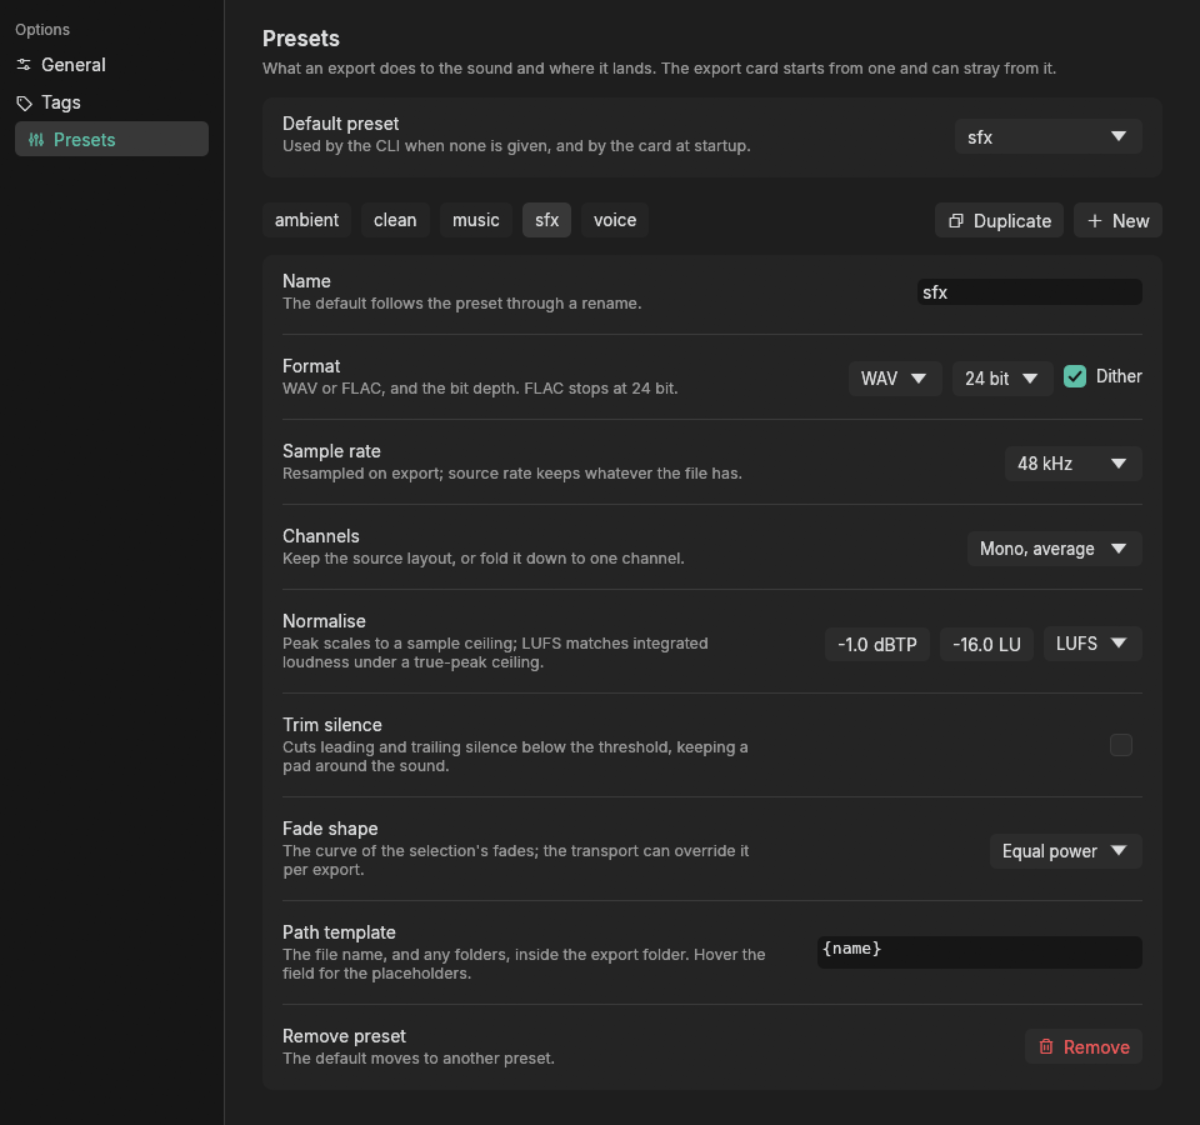
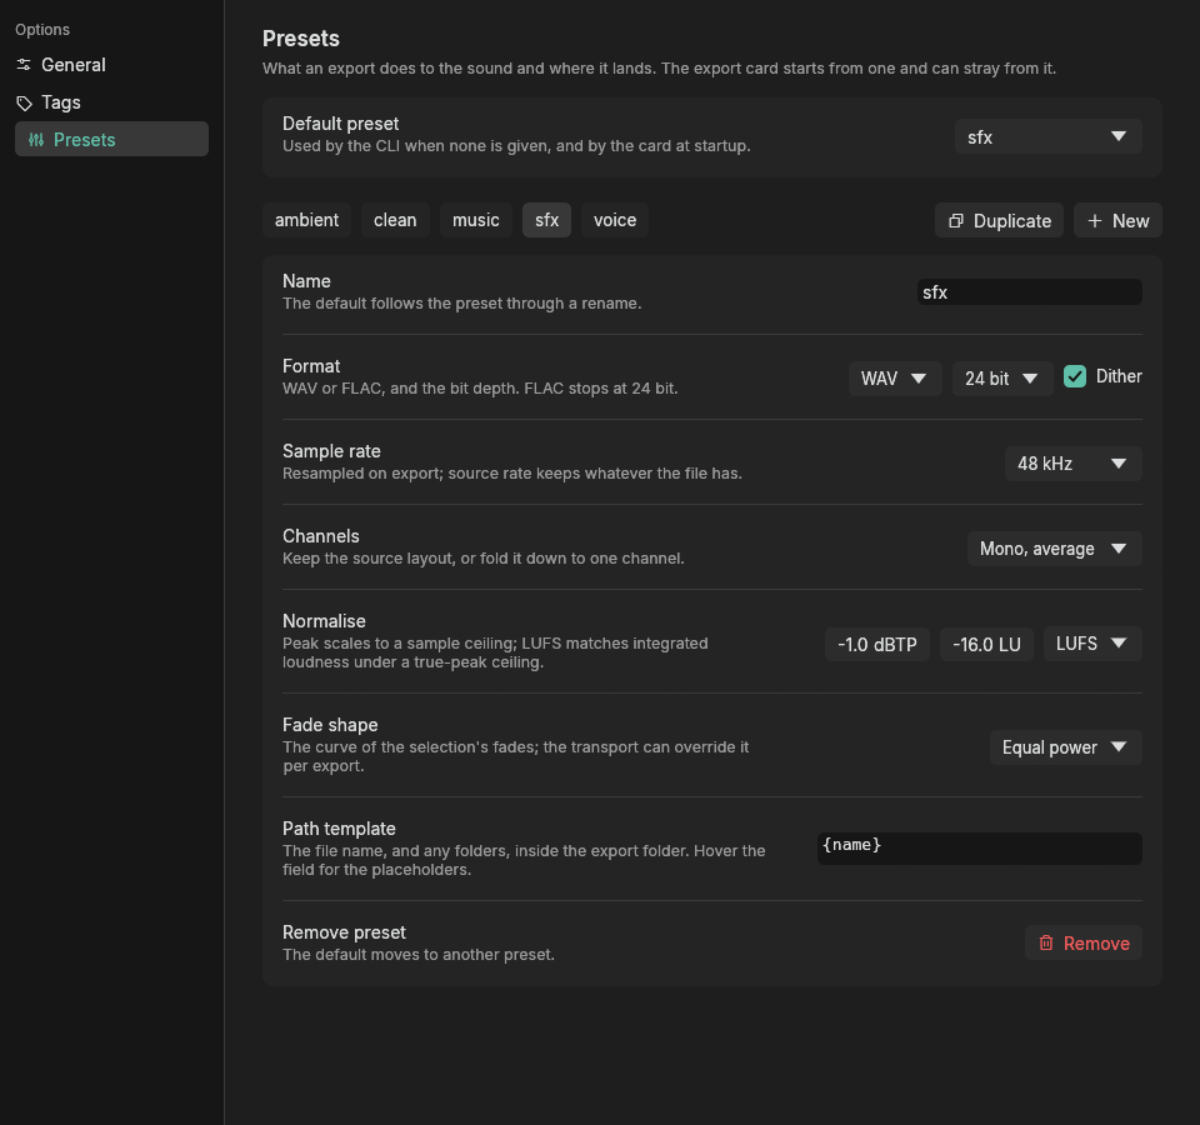
Trim is a selection tool, not a preset option: the transport's Trim button and T shrink the selection, or the whole file, to the sound, and `hark-cli export --trim` does the same; the stage project is Emberwake.
A trim inside a preset changed the export where nothing showed it. The selection is now the whole truth of what is exported: the floor is -60 dBFS with 10 ms kept, `Pcm::sound_span` finds it, and the origin records the trimmed selection as the selection.

diff --git a/crates/hark-core/src/export.rs b/crates/hark-core/src/export.rs
@@ -22,6 +22,8 @@ pub struct ExportRequest {
     pub source: PathBuf,
     pub root: Option<Root>,
     pub selection: Option<Selection>,
+    /// Shrink the selection, or the whole file, to its sound before anything else.
+    pub trim: bool,
     pub fade_in_secs: f64,
     pub fade_out_secs: f64,
     /// The level chosen by hand, in dB; applied unless the preset normalises.
@@ -59,6 +61,7 @@ impl ExportRequest {
             source: source.to_path_buf(),
             root: config.root_of(source).cloned(),
             selection: None,
+            trim: false,
             fade_in_secs: 0.0,
             fade_out_secs: 0.0,
             gain_db: 0.0,
@@ -129,6 +132,13 @@ pub fn run(req: &ExportRequest) -> Result<ExportResult> {
     let source_meta = std::fs::metadata(&req.source).with_context(|| format!("stat {}", req.source.display()))?;
     let source = crate::decode::decode(&req.source)?;
     let preset = req.effective_preset();
+    let mut req = req.clone();
+    if req.trim {
+        let (start, end) = req.selection.map(|s| (s.start_secs, s.end_secs)).unwrap_or((0.0, source.duration_secs()));
+        let (start_secs, end_secs) = source.sound_span(start, end).ok_or_else(|| anyhow!("silent at {} dBFS; nothing to trim to", crate::pcm::TRIM_THRESHOLD_DBFS))?;
+        req.selection = Some(Selection { start_secs, end_secs });
+    }
+    let req = &req;
     let (pcm, warnings, measured) = process(&source, req, &preset)?;
     let output_loudness = loudness::measure(&pcm).ok();
     let measured = Measured {
@@ -204,24 +214,6 @@ fn process(source: &Pcm, req: &ExportRequest, preset: &ExportPreset) -> Result<(
         None => source.clone(),
     };
 
-    if let Some(trim) = preset.trim_silence {
-        let threshold = db_to_gain(trim.threshold_dbfs);
-        let pad = ((trim.pad_ms / 1000.0) * pcm.sample_rate as f64).round() as usize;
-        match pcm.non_silent_bounds(threshold) {
-            Some((a, b)) => {
-                let a = a.saturating_sub(pad);
-                let b = (b + pad).min(pcm.frames());
-                let base = req.selection.map(|s| s.start_secs).unwrap_or(0.0);
-                measured.trimmed = Some(SelectionRef {
-                    start_secs: base + a as f64 / pcm.sample_rate as f64,
-                    end_secs: base + b as f64 / pcm.sample_rate as f64,
-                });
-                pcm = pcm.slice_frames(a, b);
-            }
-            None => warnings.push("source is silent at the trim threshold; nothing trimmed".into()),
-        }
-    }
-
     if req.fade_in_secs > 0.0 {
         pcm.fade_in((req.fade_in_secs * pcm.sample_rate as f64).round() as usize, preset.fade_shape);
     }
@@ -294,6 +286,7 @@ pub fn request_from_origin(origin: &Origin, output_root: &Path, output_path: Opt
             (Some(name), Some(path)) => Some(Root { name: name.clone(), path: path.clone() }),
             _ => None,
         },
+        trim: false,
         selection: origin.selection.map(|s| Selection { start_secs: s.start_secs, end_secs: s.end_secs }),
         fade_in_secs: origin.fade_in_secs,
         fade_out_secs: origin.fade_out_secs,

diff --git a/crates/hark-cli/src/main.rs b/crates/hark-cli/src/main.rs
@@ -244,12 +244,6 @@ struct PresetValues {
     /// True-peak ceiling in dBTP for LUFS normalisation.
     #[arg(long, allow_hyphen_values = true)]
     ceiling: Option<f64>,
-    /// Trim threshold in dBFS (--trim=-60), or "off".
-    #[arg(long, allow_hyphen_values = true)]
-    trim: Option<String>,
-    /// Pad kept around the trimmed sound, in ms.
-    #[arg(long)]
-    pad: Option<f64>,
     #[arg(long)]
     dither: Option<bool>,
     /// linear, equal_power or logarithmic.
@@ -299,20 +293,6 @@ impl PresetValues {
             (_, Some(_), _) | (_, _, Some(_)) => return Err(anyhow!("target and ceiling need peak or lufs normalisation")),
             _ => {}
         }
-        if let Some(t) = &self.trim {
-            p.trim_silence = if t == "off" {
-                None
-            } else {
-                let threshold_dbfs = t.parse().map_err(|_| anyhow!("trim must be a threshold in dBFS or off"))?;
-                Some(hark_core::config::TrimSilence { threshold_dbfs, pad_ms: p.trim_silence.map(|x| x.pad_ms).unwrap_or(10.0) })
-            };
-        }
-        if let Some(pad) = self.pad {
-            match &mut p.trim_silence {
-                Some(t) => t.pad_ms = pad,
-                None => return Err(anyhow!("pad needs trim")),
-            }
-        }
         if let Some(d) = self.dither {
             p.dither = d;
         }
@@ -337,6 +317,9 @@ struct ExportArgs {
     /// Selection end in seconds.
     #[arg(long = "out")]
     end: Option<f64>,
+    /// Shrink the selection, or the whole file, to its sound: below -60 dBFS cut, 10 ms kept.
+    #[arg(long)]
+    trim: bool,
     #[arg(long, default_value_t = 0.0)]
     fade_in: f64,
     #[arg(long, default_value_t = 0.0)]
@@ -794,6 +777,7 @@ fn run() -> Result<()> {
                     sel.end_secs = hark_core::probe(&file)?.duration_secs;
                 }
             }
+            req.trim = a.trim;
             req.fade_in_secs = a.fade_in;
             req.fade_out_secs = a.fade_out;
             req.gain_db = a.gain;

diff --git a/crates/hark/src/main.rs b/crates/hark/src/main.rs
@@ -343,6 +343,20 @@ impl App {
     }
 
     /// A message holds the footer for a while, then the key hints come back.
+    /// Shrinks the selection, or the whole file, to the sound in it.
+    fn trim_selection(&mut self) {
+        let Some(cur) = &self.current else { return };
+        let Source::Whole(pcm) = &cur.source else {
+            self.set_status("Trim needs the file decoded whole; this one streams", true);
+            return;
+        };
+        let (start, end) = self.wave.selection.unwrap_or((0.0, cur.duration_secs));
+        match pcm.sound_span(start, end) {
+            Some(span) => self.wave.selection = Some(span),
+            None => self.set_status(format!("Silent below {} dBFS; nothing to trim to", hark_core::pcm::TRIM_THRESHOLD_DBFS), true),
+        }
+    }
+
     fn set_status(&mut self, msg: impl Into<String>, error: bool) {
         self.status = msg.into();
         self.status_is_error = error;
@@ -739,6 +753,9 @@ impl App {
         }
         if pressed(Key::Z) {
             self.wave.zoom_to_selection();
+        }
+        if pressed(Key::T) {
+            self.trim_selection();
         }
         if pressed(Key::Delete) || pressed(Key::Backspace) {
             self.wave.selection = None;
@@ -1446,6 +1463,9 @@ impl App {
             }
             if icon_btn(ui, icons::MAGNIFYING_GLASS_PLUS, false).on_hover_text("Zoom to selection (Z)").clicked() {
                 self.wave.zoom_to_selection();
+            }
+            if icon_btn(ui, icons::ARROWS_IN_LINE_HORIZONTAL, false).on_hover_text(format!("Trim the selection to the sound (T): below {} dBFS cut, {} ms kept", hark_core::pcm::TRIM_THRESHOLD_DBFS, hark_core::pcm::TRIM_PAD_SECS * 1000.0)).clicked() {
+                self.trim_selection();
             }
             group(ui);
             ui.label(RichText::new("Fade").color(self.theme.muted));

diff --git a/crates/hark-core/src/pcm.rs b/crates/hark-core/src/pcm.rs
@@ -185,15 +185,30 @@ impl Pcm {
         Pcm { sample_rate: self.sample_rate, channels: 1, samples: out }
     }
 
-    /// First and last frame with any sample above `threshold` (linear), or `None` when silent.
-    pub fn non_silent_bounds(&self, threshold: f32) -> Option<(usize, usize)> {
+    /// The span of sound inside `start..end` seconds: the first and last frame with a sample
+    /// above `TRIM_THRESHOLD_DBFS`, with `TRIM_PAD_SECS` kept on each side inside the span.
+    /// `None` when the span is silent.
+    pub fn sound_span(&self, start_secs: f64, end_secs: f64) -> Option<(f64, f64)> {
         let c = self.channels as usize;
+        let (from, to) = (self.frame_at(start_secs), self.frame_at(end_secs).min(self.frames()));
+        if to <= from {
+            return None;
+        }
+        let threshold = db_to_gain(TRIM_THRESHOLD_DBFS);
         let loud = |f: &[f32]| f.iter().any(|s| s.abs() > threshold);
-        let first = self.samples.chunks(c).position(loud)?;
-        let last = self.samples.chunks(c).rposition(loud)?;
-        Some((first, last + 1))
+        let mut frames = self.samples[from * c..to * c].chunks(c);
+        let first = frames.clone().position(loud)?;
+        let last = frames.rposition(loud)?;
+        let rate = self.sample_rate as f64;
+        let a = ((from + first) as f64 / rate - TRIM_PAD_SECS).max(start_secs);
+        let b = ((from + last + 1) as f64 / rate + TRIM_PAD_SECS).min(end_secs);
+        Some((a, b))
     }
 }
+
+/// A trim cuts what stays below this level, and keeps this much around the sound.
+pub const TRIM_THRESHOLD_DBFS: f64 = -60.0;
+pub const TRIM_PAD_SECS: f64 = 0.01;
 
 pub fn db_to_gain(db: f64) -> f32 {
     10f64.powf(db / 20.0) as f32

diff --git a/crates/hark/src/preset_ui.rs b/crates/hark/src/preset_ui.rs
@@ -2,7 +2,7 @@
 //! presets page. Each returns whether it changed the preset.
 
 use egui::RichText;
-use hark_core::config::{Normalize, OutputFormat, TrimSilence};
+use hark_core::config::{Normalize, OutputFormat};
 use hark_core::pcm::{DownmixMode, FadeShape};
 use hark_core::ExportPreset;
 
@@ -116,21 +116,6 @@ pub fn normalize(ui: &mut egui::Ui, id: &str, p: &mut ExportPreset) -> bool {
             changed |= number(ui, target_lufs, -40.0..=0.0, " LU", 66.0);
             changed |= number(ui, true_peak_ceiling_dbfs, -12.0..=0.0, " dBTP", 72.0);
         }
-    }
-    changed
-}
-
-/// On or off, then the threshold and the pad kept around the sound.
-pub fn trim_silence(ui: &mut egui::Ui, p: &mut ExportPreset) -> bool {
-    let mut changed = false;
-    let mut on = p.trim_silence.is_some();
-    if crate::theme::check(ui, &mut on, "").changed() {
-        p.trim_silence = on.then_some(TrimSilence { threshold_dbfs: -60.0, pad_ms: 10.0 });
-        changed = true;
-    }
-    if let Some(t) = &mut p.trim_silence {
-        changed |= number(ui, &mut t.threshold_dbfs, -96.0..=0.0, " dBFS", 72.0);
-        changed |= ui.add_sized(egui::vec2(60.0, CONTROL_H), egui::DragValue::new(&mut t.pad_ms).speed(1.0).range(0.0..=1000.0).fixed_decimals(0).suffix(" ms")).changed();
     }
     changed
 }

diff --git a/crates/hark-core/src/config.rs b/crates/hark-core/src/config.rs
@@ -58,12 +58,6 @@ pub enum Normalize {
     Lufs { target_lufs: f64, true_peak_ceiling_dbfs: f64 },
 }
 
-#[derive(Clone, Copy, Debug, Serialize, Deserialize, PartialEq)]
-pub struct TrimSilence {
-    pub threshold_dbfs: f64,
-    pub pad_ms: f64,
-}
-
 #[derive(Clone, Debug, Serialize, Deserialize, PartialEq)]
 pub struct ExportPreset {
     #[serde(default)]
@@ -78,8 +72,6 @@ pub struct ExportPreset {
     pub mono: Option<DownmixMode>,
     #[serde(default)]
     pub normalize: Normalize,
-    #[serde(default, skip_serializing_if = "Option::is_none")]
-    pub trim_silence: Option<TrimSilence>,
     #[serde(default = "default_true")]
     pub dither: bool,
     #[serde(default)]
@@ -109,7 +101,6 @@ impl Default for ExportPreset {
             sample_rate: None,
             mono: None,
             normalize: Normalize::None,
-            trim_silence: None,
             dither: true,
             fade_shape: FadeShape::EqualPower,
             path_template: default_template(),

diff --git a/crates/hark/src/settings.rs b/crates/hark/src/settings.rs
@@ -350,9 +350,6 @@ impl App {
             row(ui, &theme, false, "Normalise", "Peak scales to a sample ceiling; LUFS matches integrated loudness under a true-peak ceiling.", |ui| {
                 ui.horizontal(|ui| preset_ui::normalize(ui, "settings", &mut p));
             });
-            row(ui, &theme, false, "Trim silence", "Cuts leading and trailing silence below the threshold, keeping a pad around the sound.", |ui| {
-                ui.horizontal(|ui| preset_ui::trim_silence(ui, &mut p));
-            });
             row(ui, &theme, false, "Fade shape", "The curve of the selection's fades; the transport can override it per export.", |ui| {
                 preset_ui::fade_shape(ui, "settings", &mut p);
             });

diff --git a/crates/hark-core/src/origin.rs b/crates/hark-core/src/origin.rs
@@ -49,8 +49,6 @@ pub struct Measured {
     pub output_lufs: Option<f64>,
     #[serde(default, skip_serializing_if = "Option::is_none")]
     pub output_true_peak_dbfs: Option<f64>,
-    #[serde(default, skip_serializing_if = "Option::is_none")]
-    pub trimmed: Option<SelectionRef>,
 }
 
 #[derive(Clone, Debug, Serialize, Deserialize, PartialEq)]

diff --git a/README.md b/README.md
@@ -18,8 +18,8 @@ Auditioning a big library in a DAW means importing first, and in a file manager 
 - **Library, not import.** Folders stay where they are and are never modified. The list shows duration, channels, rate, bit depth, codec and loudness; search covers everything, and a filter narrows by favorites, tags, type and channels.
 - **Favorites and tags** from the keyboard. Tags are yours to define, with a colour each. Marks key on the file's content, so a renamed or moved file keeps them.
 - **Projects.** A `.hark` file beside the game holds its library folders, its output folder and its own favorites. Switch between games from the top bar.
-- **Waveform selection with fades.** Drag a region, set fade in and out, zoom, loop, seek by clicking, and scale the level with the fader beside the waveform.
-- **Preset-driven export.** WAV or FLAC, bit depth with dither, resampling, mono downmix, silence trim, peak or EBU R128 loudness normalisation under a true-peak ceiling, and a file name template. Override any of it for one export.
+- **Waveform selection with fades.** Drag a region or trim it to the sound, set fade in and out, zoom, loop, seek by clicking, and scale the level with the fader beside the waveform.
+- **Preset-driven export.** WAV or FLAC, bit depth with dither, resampling, mono downmix, peak or EBU R128 loudness normalisation under a true-peak ceiling, and a file name template. Override any of it for one export.
 - **An origin inside every export.** A `hark` RIFF chunk and a BWF `bext` description in WAV, an APPLICATION block and a Vorbis comment in FLAC: source path and hash, pack, selection, fades, preset and measured gain. `hark-cli reexport` runs that recipe again with changes.
 - **A CLI for all of it.** `hark-cli` exposes the same core with `--json` on every command, so a script or an agent can search, mark, analyse and export without a window.
 
@@ -51,6 +51,7 @@ Start `hark`, add a library folder with the button under the tree, pick a folder
 | A | Autoplay |
 | `[` and `]` | Set the selection start or end at the playhead |
 | Z | Zoom to the selection |
+| T | Trim the selection, or the whole file, to the sound |
 | Delete | Clear the selection and fades |
 | E | Export the selection with the chosen preset |
 
@@ -82,10 +83,10 @@ hark-cli reexport ~/Projects/game/Assets/Audio/sfx/*.wav --preset sfx
 ```
 $ hark-cli inspect Assets/Audio/sfx/combat/impact_metal_heavy_02.wav
   wave pcm_s24le · 48000 Hz · 1 ch · 24 bit · 1.600s
-  bext: hark: Hollowmere SFX:Impacts/impact_metal_heavy_02.wav
-  origin: hark: Hollowmere SFX:Impacts/impact_metal_heavy_02.wav
+  bext: hark: Emberwake SFX:Impacts/impact_metal_heavy_02.wav
+  origin: hark: Emberwake SFX:Impacts/impact_metal_heavy_02.wav
     exported 2026-10-15T20:08:46+02:00 by hark 0.1.0 with preset sfx
-    source ~/Audio/Hollowmere/Impacts/impact_metal_heavy_02.wav (230480 bytes, blake3 a1e93ed24193076e)
+    source ~/Audio/Emberwake/Impacts/impact_metal_heavy_02.wav (230480 bytes, blake3 a1e93ed24193076e)
     fades 0.000s / 0.000s · gain -1.33 dB (true-peak limited)
 ```
 
